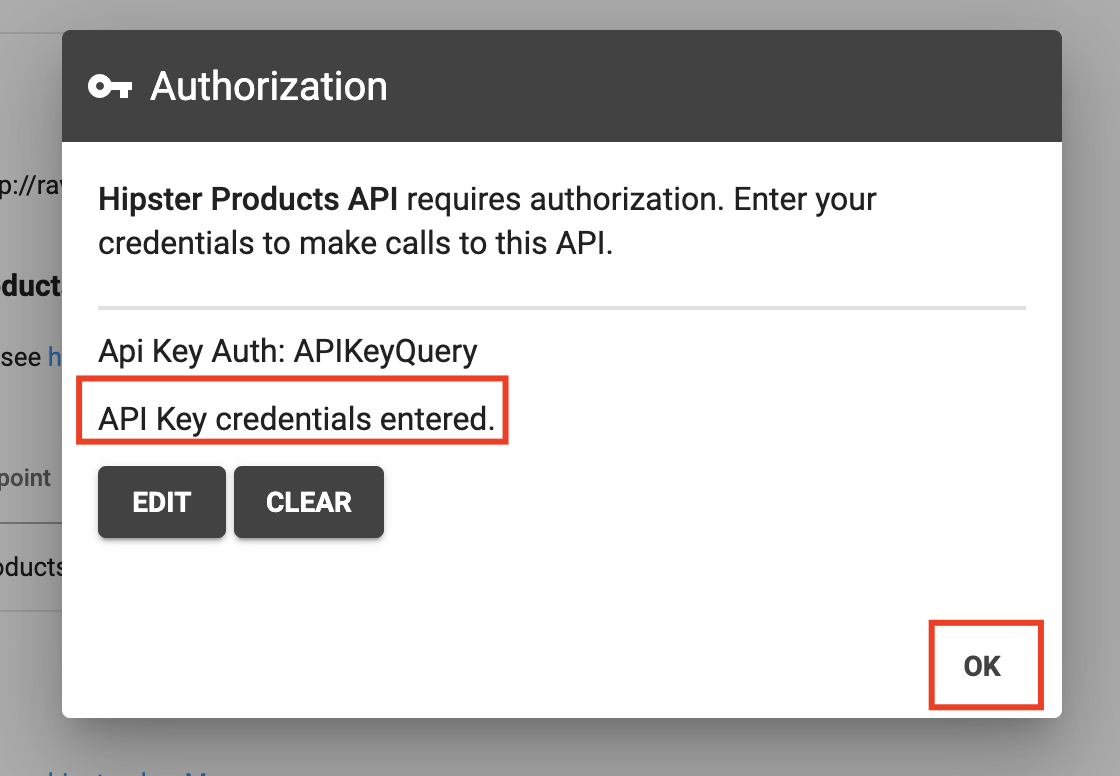
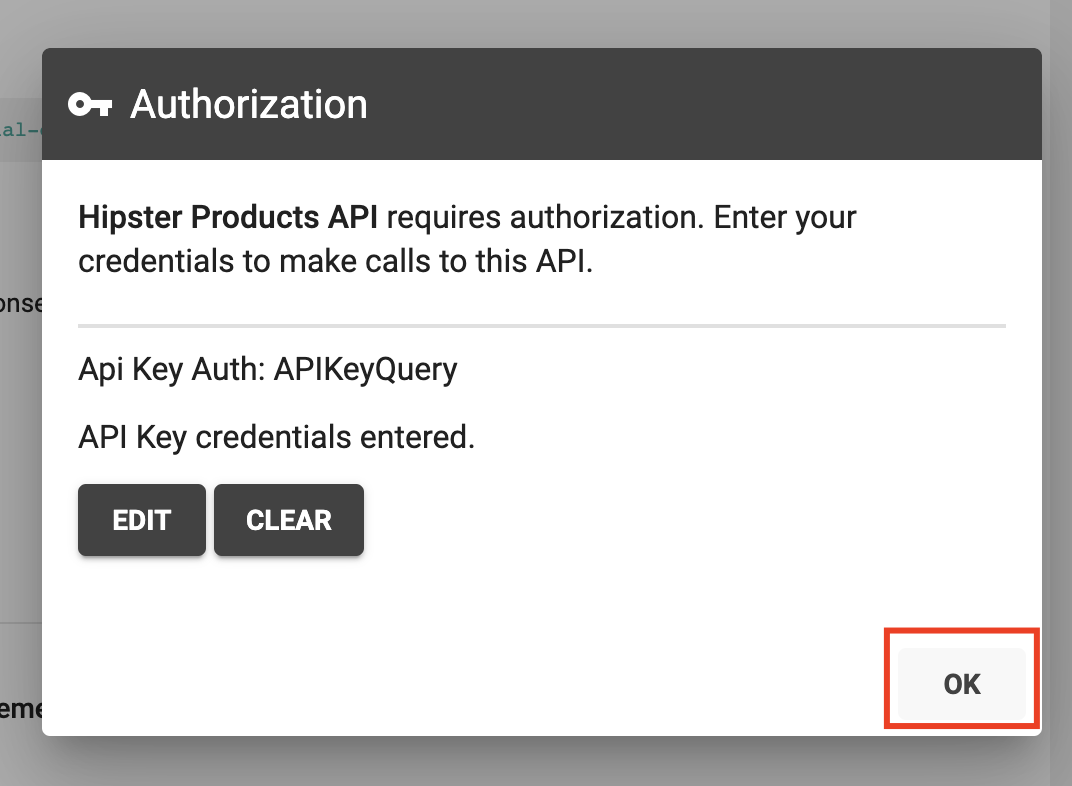
Adding Lab 4 changes

Changed region(s): [[0.0, 0.0309, 0.9851, 0.9588], [0.3386, 0.6186, 0.3694, 0.6804], [0.1539, 0.9897, 0.1847, 1.0]]

diff --git a/Module-1/Labs/Lab 4/README.md b/Module-1/Labs/Lab 4/README.md
@@ -188,15 +188,15 @@ For further information, see "[Adding CORS support to an API proxy](https://docs
 
 2. Enter details in the portal creation wizard. Replace **{{your-initials}}** with the initials of your name.
 
-  * Name: {{your initials}}\_Hipster API Portal
+  * Name: `{{your initials}}_Hipster API Portal`
 
-  * Description: Developer portal for consumption of Hipster APIs.
+  * Description: `Developer portal for consumption of Hipster APIs.`
 
 3. Click **Create**
 
 ![image alt text](./media/image_4.png)
 
-## Publish the Bronze API Product to the Portal
+## Publish the Bronze (Free) API Product to the Portal
 
 1. Click the Portal Editor’s dropdown and select **APIs**.
 
@@ -279,14 +279,46 @@ Since we you have provided your own email address as the App Developer in this l
 
 ![image alt text](./media/FreeProductDocsPage.png)
 
-3. To test the API, first click on the **Authorize** button to provide a valid API Key.
-Provide one of the API Keys you obtained from the previous labs to authorize test calls to the API.
+4. Select one of the API resource paths from the left pannel of the docs and click **Execute**. You will then see a 401 Unauthorized response in the right pannel.
 
-![image alt text](./media/AuthorizeInDocs.png)
+   ![image alt text](./media/TestDocsUnauthorized.png)
 
-![image alt text](./media/AuthorizeInDocsOk.png)
+   This is because you haven't yet registered any Apps and therefore have no API Keys to use for an authorized API call.
 
-4. Select one of the API resource paths from the left pannel of the docs and click **Execute**. You will then see the response in the right pannel.
+## Register Apps
+
+1. Navigate to the developer account drop down menu on the top right corner, and select the **Apps** link.
+
+   ![image alt text](./media/AccountApps.png)
+
+2. Click the **New App** button (either on the page itself or on the top panel, as shown below).
+
+   ![image alt text](./media/NewApp.png)
+
+3. Enter the following App details and click **Create**:
+    
+    App Name: `VR_Hipster-Test-App`
+    Description: `Test app to try out Hipster Products API using the Bronze (Free) API Product`
+
+    Select the Bronze (Free) API Product that is available for subscription.
+
+    ![image alt text](./media/AppCreateForm.png)
+
+4. You will find that an API Key/Secret pair has been generated for your newly created App. You can now use this API Key to test the API.
+
+   ![image alt text](./media/TestAppOverview.png)
+
+5. Navigate to the API Catalog, select the Bronze API Product docs, and test out the GET `/products` resource again. This time though, first click on the **Authorize** button and select the newly created App's credentials to set authorization information (API Key) for the API call.
+
+   ![image alt text](./media/TestDocsAuthorized.png)
+
+   Click **OK** after authorization information is set.
+
+   ![image alt text](./media/AuthorizeInDocsOk.png)
+
+   Now, click **Execute**. You will see that a valid 200 OK API response is received.
+
+   ![image alt text](./media/AuthorizedDocsTestResult.png)
 
 ## Enable Audience and Teams features
 
